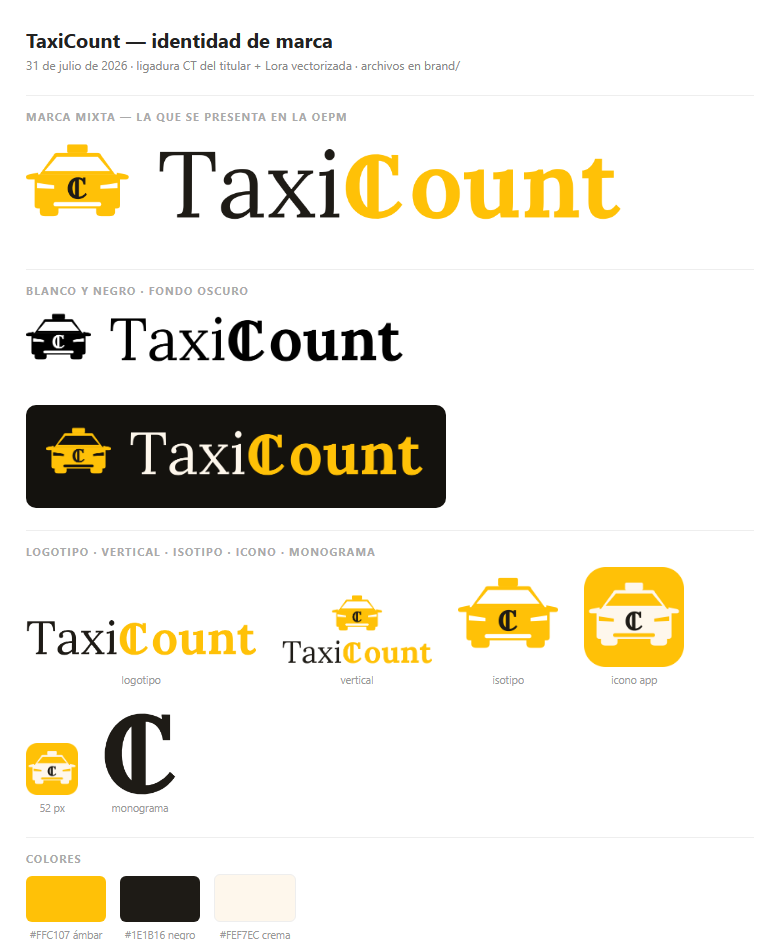
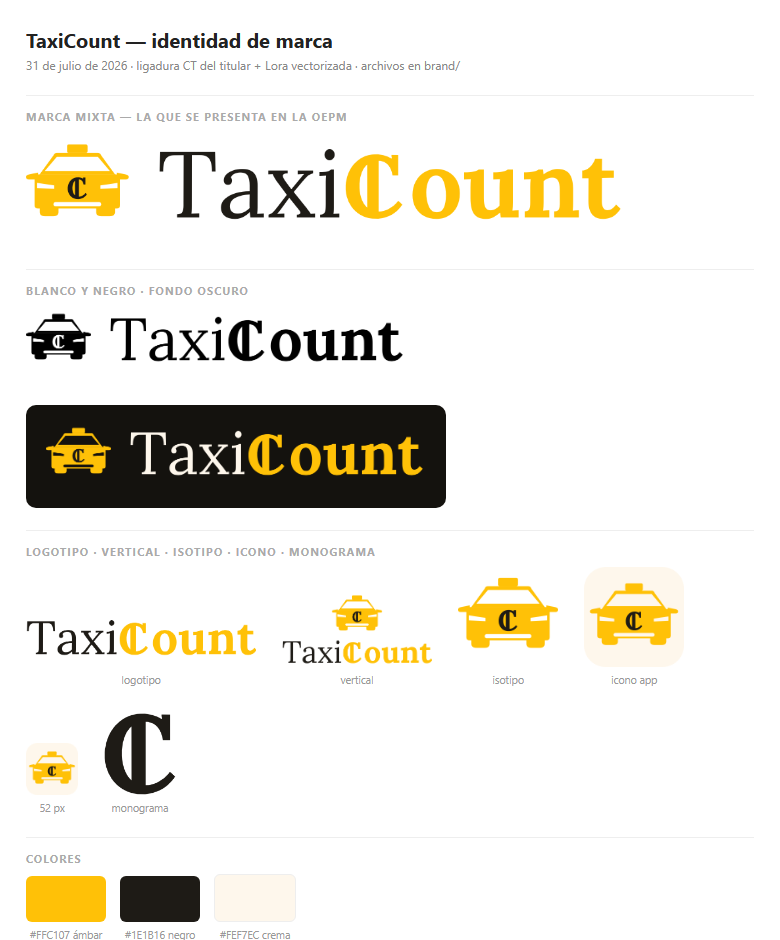
fix(branding): el icono de app pasa a ser el isotipo sobre fondo crema
Antes invertia los colores (fondo ambar, carroceria crema), lo que lo hacia
distinto del isotipo. Ahora es el mismo coche ambar con el monograma negro,
sobre un fondo crema redondeado.

Changed region(s): [[0.7385, 0.5862, 0.8923, 0.7096], [0.0308, 0.7713, 0.1231, 0.8638]]

diff --git a/brand/generar-marca.js b/brand/generar-marca.js
@@ -102,13 +102,11 @@ const files = {
     `  <g transform="translate(${Math.round((PALABRA_W - 234) / 2)},0) scale(1.95)">${isotipo(AMBAR, NEGRO, false)}</g>
   <g transform="translate(0,340)">${palabra(NEGRO, AMBAR)}</g>`),
 
+  // El icono de app es el isotipo tal cual, sobre fondo crema: mismo coche
+  // ambar y mismo monograma negro, sin invertir colores.
   'taxicount-icono-app.svg': doc('0 0 120 120', 120, 120, 'TaxiCount — icono de aplicacion',
-    `  <rect width="120" height="120" rx="26" fill="${AMBAR}"/>
-  <g transform="translate(60,61) scale(0.9) translate(-60,-60)">
-    <g fill="${CREMA}">${CARRO}</g>
-    <g fill="${AMBAR}">${HUECOS}</g>
-    ${monoCoche(NEGRO)}
-  </g>`),
+    `  <rect width="120" height="120" rx="26" fill="${CREMA}"/>
+  <g transform="translate(60,61) scale(0.88) translate(-60,-60)">${isotipo(AMBAR, NEGRO, false)}</g>`),
 };
 
 for (const [name, body] of Object.entries(files)) fs.writeFileSync(path.join(OUT, name), body);

diff --git a/brand/README.md b/brand/README.md
@@ -43,7 +43,7 @@ archivo no necesita la fuente instalada ni arrastra su licencia.
 | `taxicount-logotipo-color.svg` / `.png` | Solo la denominación |
 | `taxicount-isotipo-color.svg` / `.png` | Solo el símbolo |
 | `taxicount-isotipo-negro.svg` | Símbolo en negro |
-| `taxicount-icono-app.svg` / `.png` | Icono de aplicación, 1024×1024 |
+| `taxicount-icono-app.svg` / `.png` | Icono de aplicación, 1024×1024: **el isotipo tal cual** sobre fondo crema, sin invertir colores |
 | `monograma-ct.svg` · `monograma-ct-oepm.png` | La ligadura suelta |
 | `hoja-de-marca.png` | Resumen visual de todo |
 
